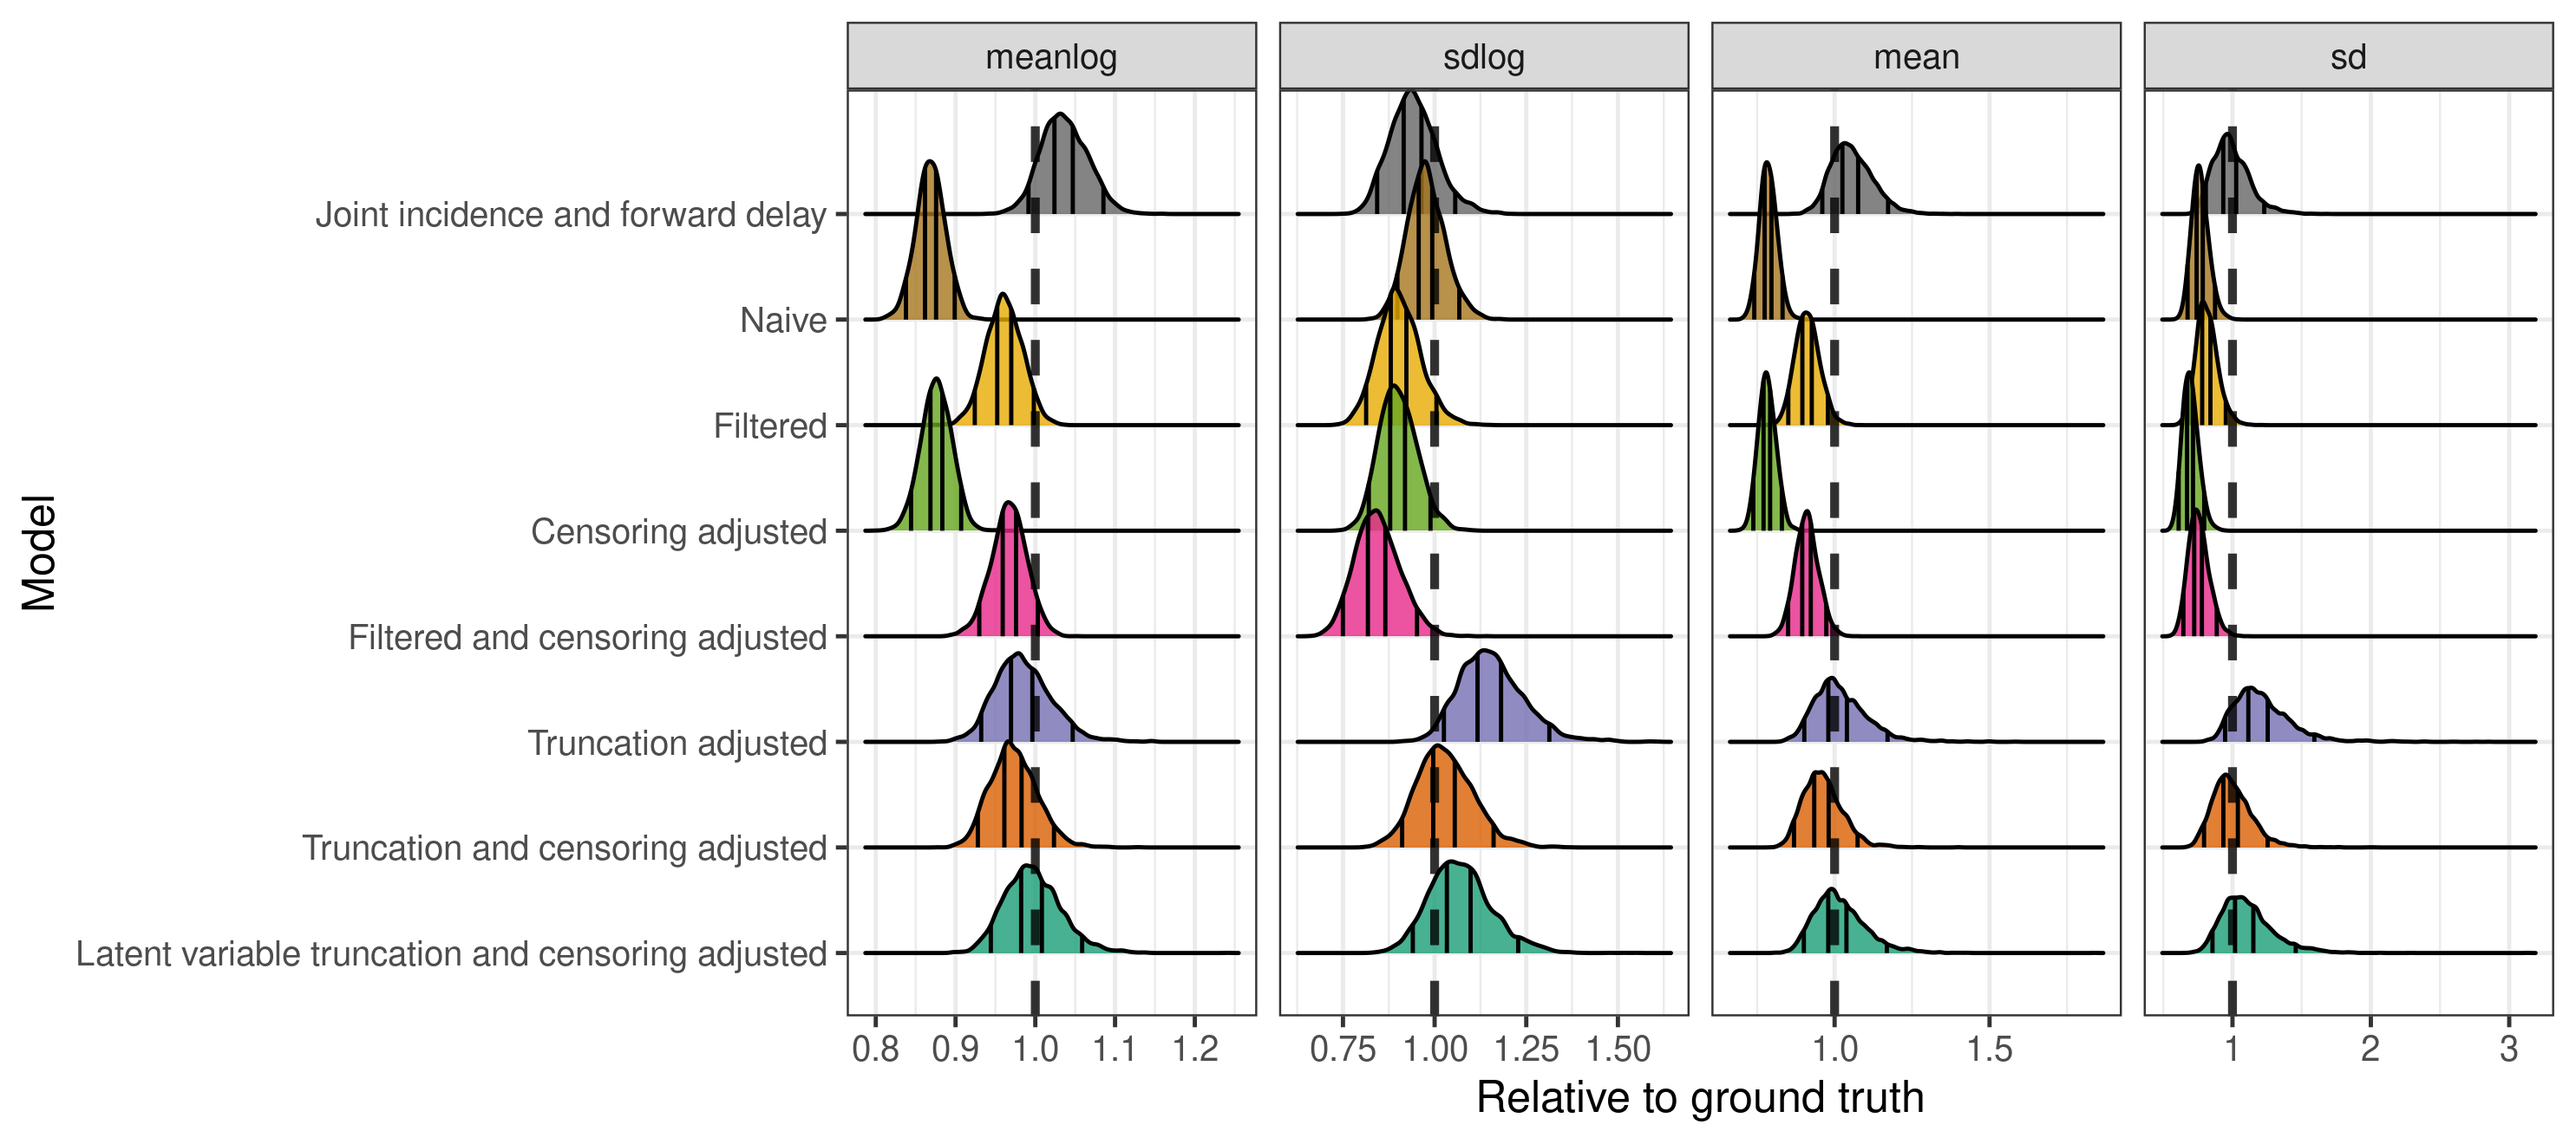
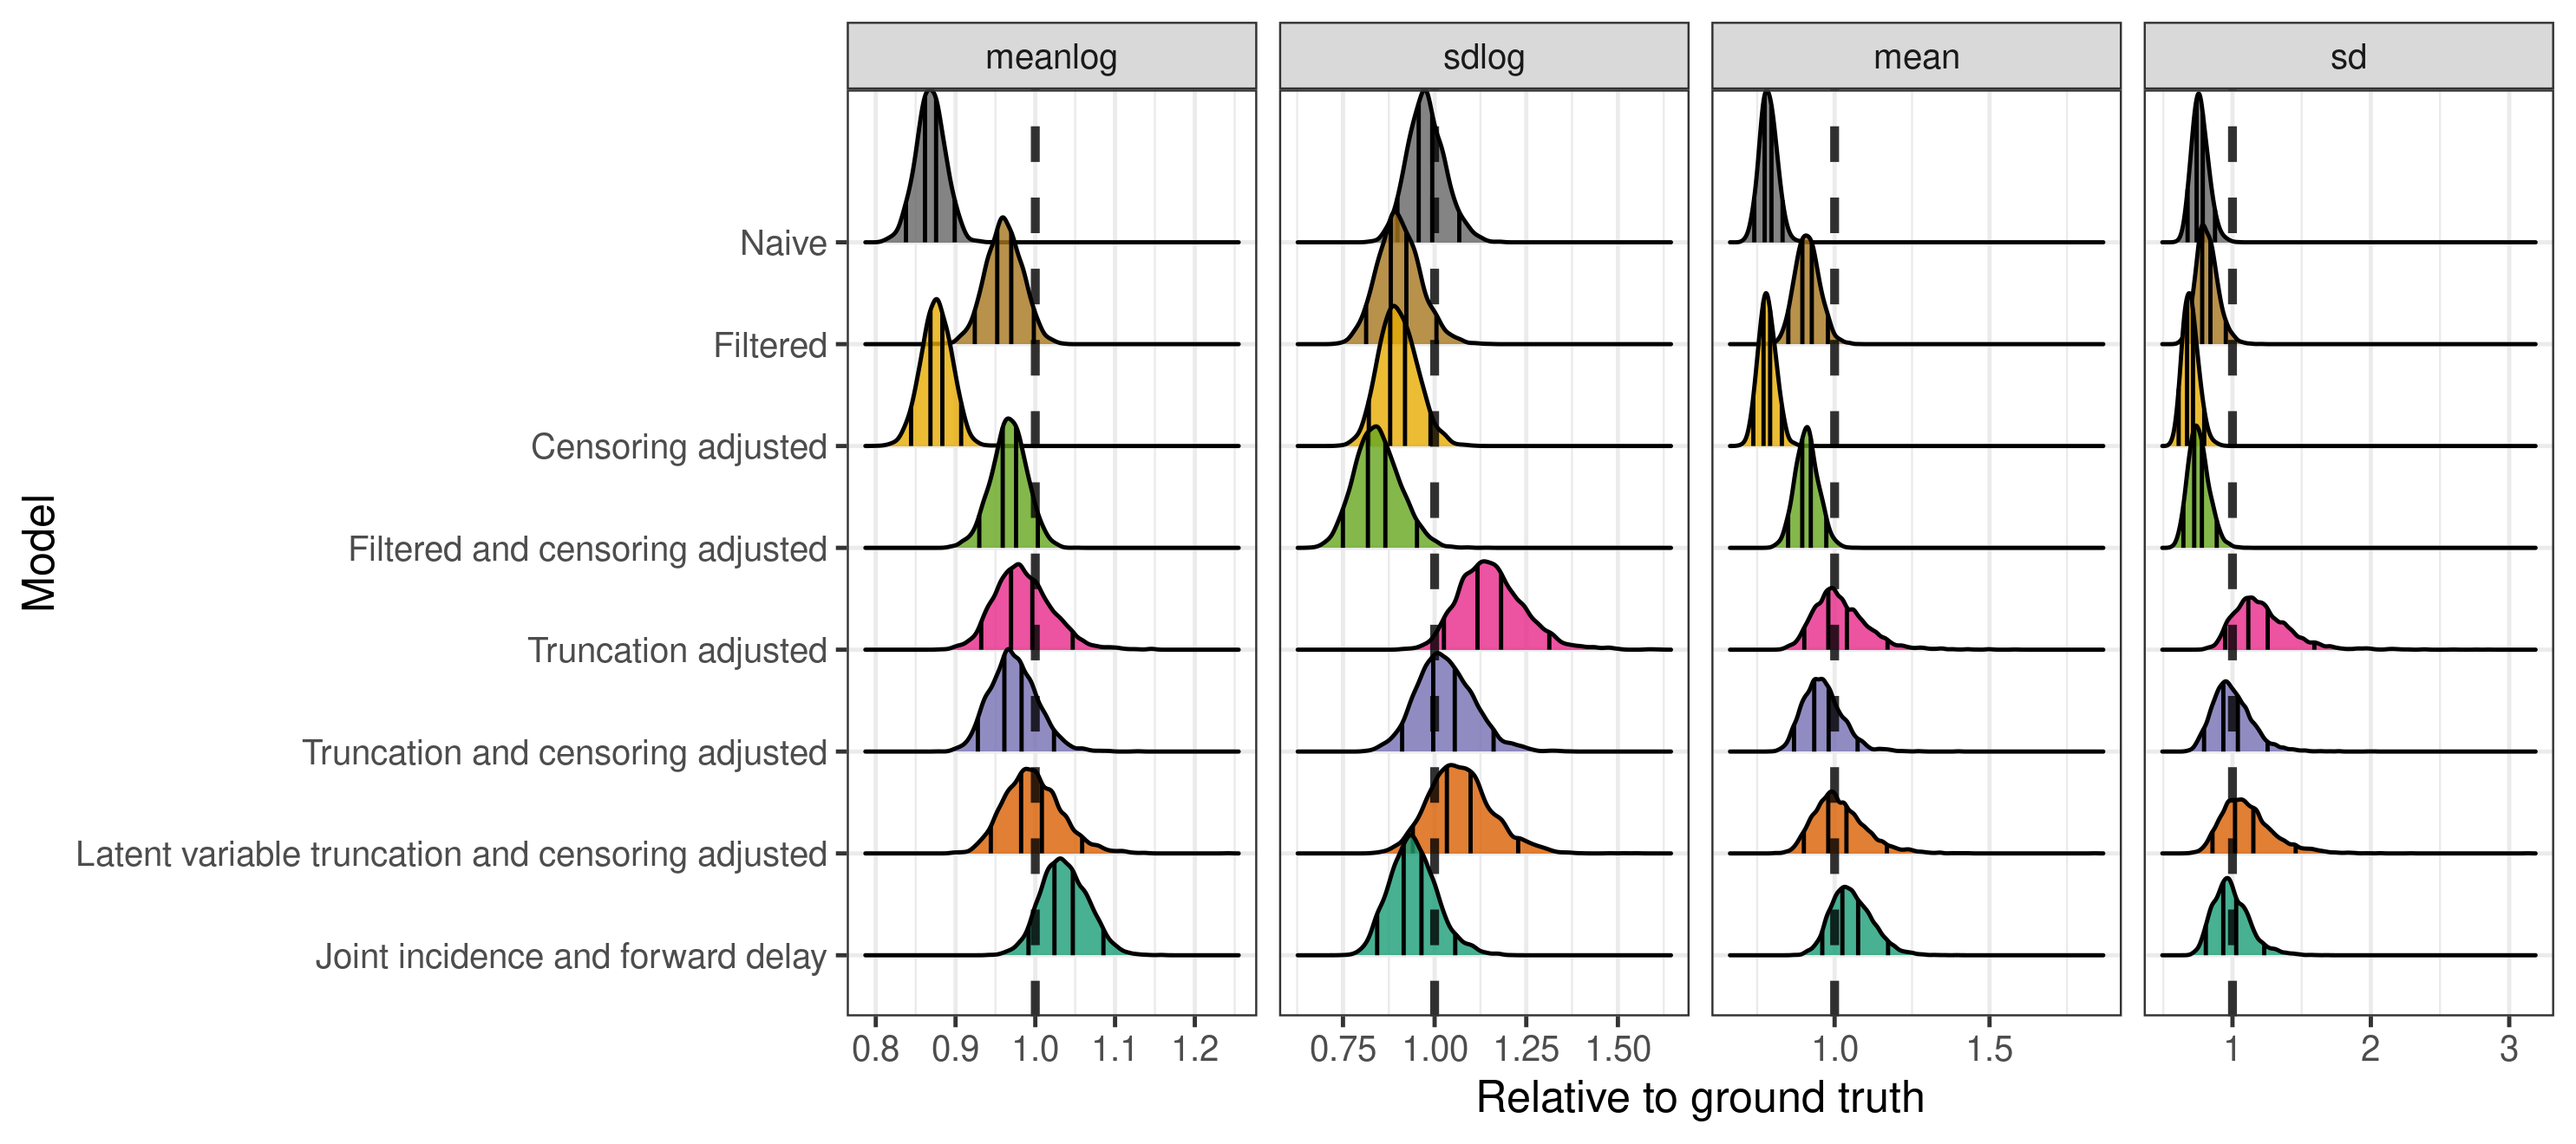
fix addition of epinowcast to readme

Changed region(s): [[0.031, 0.0621, 0.8054, 0.8697], [0.8364, 0.0932, 0.9912, 0.8386], [0.6815, 0.7765, 0.8054, 0.8386]]

diff --git a/README.md b/README.md
@@ -148,12 +148,12 @@ censored_fit <- censoring_adjusted_delay(
 #> 
 #> Chain 1 finished in 0.5 seconds.
 #> Chain 2 finished in 0.6 seconds.
-#> Chain 3 finished in 0.6 seconds.
 #> Chain 4 finished in 0.5 seconds.
+#> Chain 3 finished in 0.6 seconds.
 #> 
 #> All 4 chains finished successfully.
 #> Mean chain execution time: 0.6 seconds.
-#> Total execution time: 0.7 seconds.
+#> Total execution time: 0.8 seconds.
 ```
 
 Adjust for censoring and filter to crudely adjust for right truncation.
@@ -166,12 +166,12 @@ filtered_censored_fit <- filtered_censoring_adjusted_delay(
 #> 
 #> Chain 1 finished in 0.4 seconds.
 #> Chain 2 finished in 0.3 seconds.
-#> Chain 3 finished in 0.4 seconds.
+#> Chain 3 finished in 0.3 seconds.
 #> Chain 4 finished in 0.3 seconds.
 #> 
 #> All 4 chains finished successfully.
 #> Mean chain execution time: 0.3 seconds.
-#> Total execution time: 0.5 seconds.
+#> Total execution time: 0.4 seconds.
 ```
 
 Adjust for right truncation.
@@ -220,13 +220,13 @@ latent_truncation_censoring_fit <- latent_truncation_censoring_adjusted_delay(
 #> Running MCMC with 4 parallel chains...
 #> 
 #> Chain 1 finished in 3.4 seconds.
+#> Chain 2 finished in 3.4 seconds.
 #> Chain 3 finished in 3.4 seconds.
-#> Chain 2 finished in 3.5 seconds.
-#> Chain 4 finished in 3.5 seconds.
+#> Chain 4 finished in 3.3 seconds.
 #> 
 #> All 4 chains finished successfully.
 #> Mean chain execution time: 3.4 seconds.
-#> Total execution time: 3.7 seconds.
+#> Total execution time: 3.5 seconds.
 ```
 
 Fit a joint model to estimate primary incidence and the delay to
@@ -240,34 +240,34 @@ epinowcast_fit <- epinowcast_delay(
 )
 #> Running MCMC with 4 parallel chains...
 #> 
-#> Chain 4 finished in 9.3 seconds.
-#> Chain 3 finished in 9.6 seconds.
-#> Chain 1 finished in 9.8 seconds.
-#> Chain 2 finished in 9.9 seconds.
+#> Chain 4 finished in 9.4 seconds.
+#> Chain 2 finished in 9.6 seconds.
+#> Chain 3 finished in 9.5 seconds.
+#> Chain 1 finished in 9.7 seconds.
 #> 
 #> All 4 chains finished successfully.
 #> Mean chain execution time: 9.6 seconds.
-#> Total execution time: 9.9 seconds.
+#> Total execution time: 9.8 seconds.
 epinowcast_draws <- extract_epinowcast_draws(epinowcast_fit) |>
   DT(, model := "Joint incidence and forward delay")
 ```
 
-    ### Summarise model posteriors and compare to known truth
-    
-    Combine models into a named list.
-    
-    
-    ```r
-    models <- list(
-      "Naive" = naive_fit,
-      "Filtered" = filtered_fit,
-      "Censoring adjusted" = censored_fit,
-      "Filtered and censoring adjusted" = filtered_censored_fit,
-      "Truncation adjusted" = truncation_fit,
-      "Truncation and censoring adjusted" = truncation_censoring_fit,
-      "Latent variable truncation and censoring adjusted" =
-        latent_truncation_censoring_fit
-    )
+### Summarise model posteriors and compare to known truth
+
+Combine models into a named list.
+
+``` r
+models <- list(
+  "Naive" = naive_fit,
+  "Filtered" = filtered_fit,
+  "Censoring adjusted" = censored_fit,
+  "Filtered and censoring adjusted" = filtered_censored_fit,
+  "Truncation adjusted" = truncation_fit,
+  "Truncation and censoring adjusted" = truncation_censoring_fit,
+  "Latent variable truncation and censoring adjusted" =
+    latent_truncation_censoring_fit
+)
+```
 
 Extract and summarise lognormal posterior estimates.
 
@@ -278,7 +278,7 @@ draws <- models |>
   rbind(epinowcast_draws, use.names = TRUE) |>
   DT(,
    model := factor(
-    model, levels = c(rev(names(models)), "Joint incidence and forward delay")
+    model, levels = c("Joint incidence and forward delay", rev(names(models)))
    )
   )
 
@@ -336,8 +336,10 @@ truncated_draws <- draws |>
     ptime = range(truncated_obs$ptime_daily)
   ) |>
   summarise_variable(variable = "trunc_mean", by = c("obs_horizon", "model")) |>
-  DT(, model := factor(model, levels = rev(names(models))))
-
+  DT(, model := factor(
+      model, levels = c("Joint incidence and forward delay", rev(names(models)))
+    )
+  )
 
 truncated_draws |>
   plot_mean_posterior_pred(
